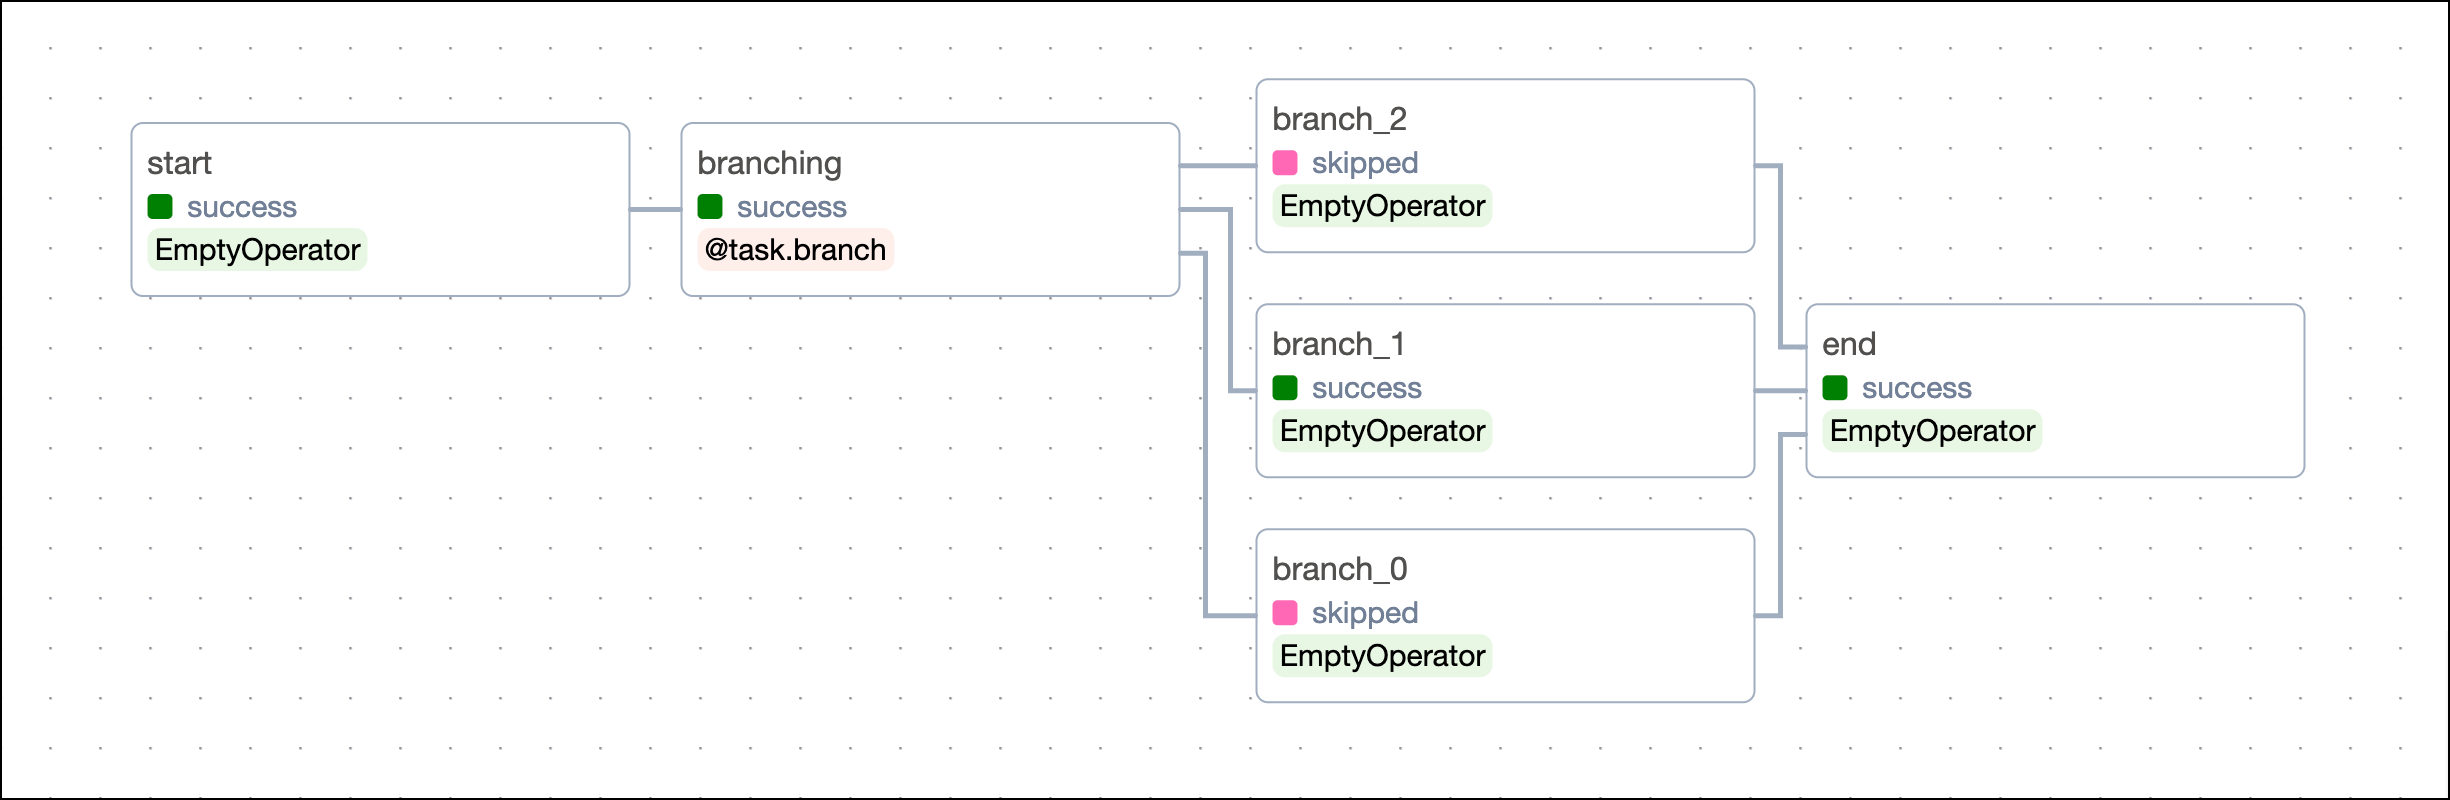
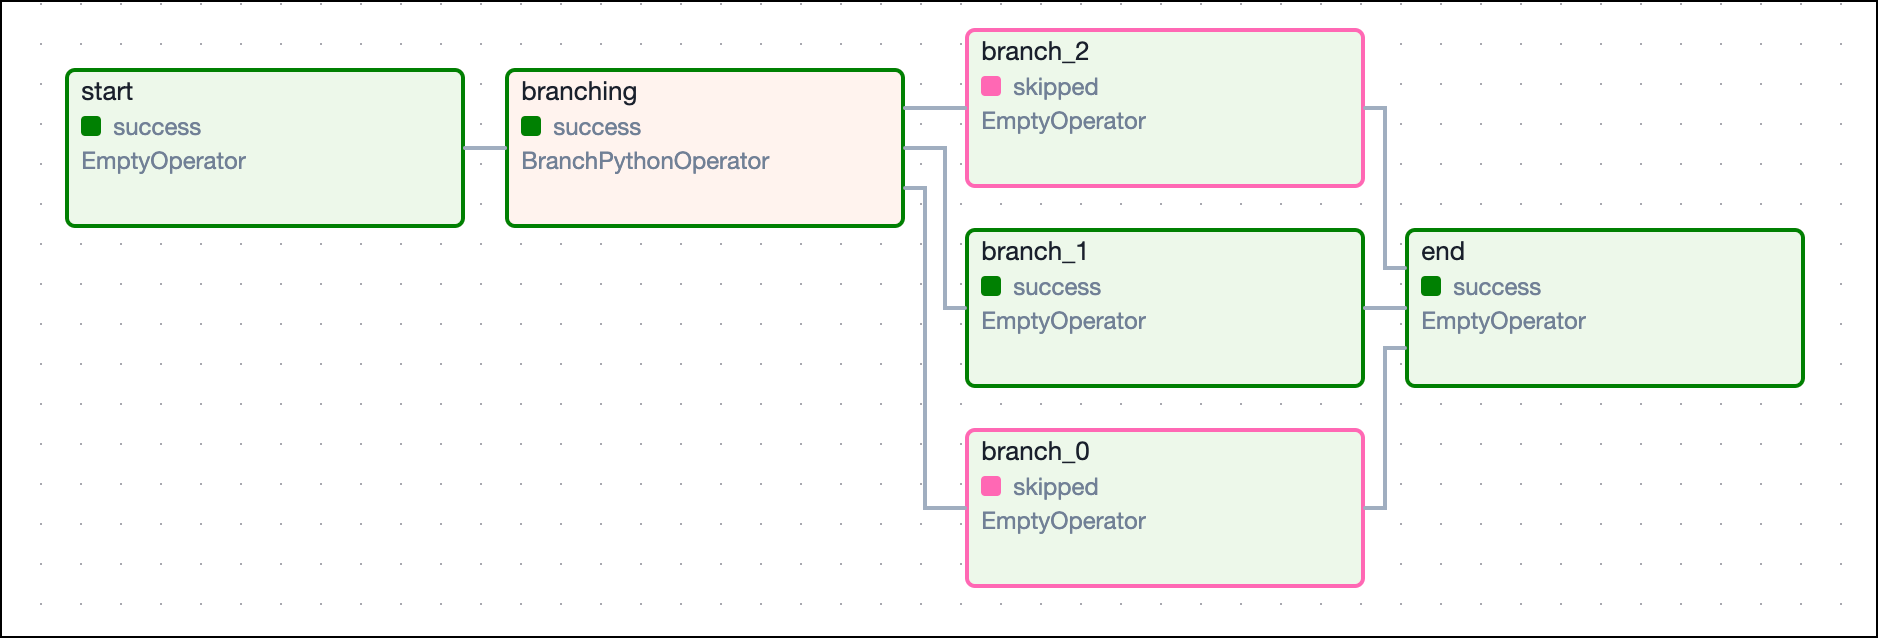
Trigger rule guide (#3877)
* Trigger rule guide base commit

* more trigger rules

* and even more trigger rules

* fix deploy

* update branching screenshots

* update links

* note about fail_stop and setup/teardown

* fix deploy

* on me for trusting GH copilot there

* add missing image borders

* semantics

* retitle

* SEO?

* Apply suggestions from code review

* review updates 2

* fix link

* Apply suggestions from code review

---------

Changed region(s): [[0.0309, 0.0298, 0.9574, 0.9232], [0.9883, 0.9828, 1.0, 1.0], [0.0, 0.9828, 0.0309, 1.0]]

diff --git a/sidebarsLearn.js b/sidebarsLearn.js
@@ -57,6 +57,7 @@ module.exports = {
             'what-is-a-sensor',
             'managing-dependencies',
             'airflow-ui',
+            'airflow-trigger-rules',
             'airflow-variables',
           ],
         },

diff --git a/learn/airflow-trigger-rules.md b/learn/airflow-trigger-rules.md
@@ -1,0 +1,126 @@
+---
+title: "Airflow trigger rules"
+sidebar_label: "Trigger rules"
+id: airflow-trigger-rules
+description: "Learn about available trigger rules and how to use them."
+---
+
+import Tabs from '@theme/Tabs';
+import TabItem from '@theme/TabItem';
+import CodeBlock from '@theme/CodeBlock';
+import branch_example_taskflow from '!!raw-loader!../code-samples/dags/airflow-trigger-rules/branch_example_taskflow.py';
+import branch_example_traditional from '!!raw-loader!../code-samples/dags/airflow-trigger-rules/branch_example_traditional.py';
+
+Trigger rules are used to determine when a task should run in relation to the previous task. By default, Airflow runs a task when all directly upstream tasks are successful. However, you can change this behavior using the `trigger_rule` parameter in the task definition.
+
+:::info
+
+Trigger rules define whether a task runs based on its direct upstream dependencies. To learn how to set task dependencies, see the [Manage task and task group dependencies in Airflow](managing-dependencies.md) guide.
+
+:::
+
+## Define a trigger rule
+
+You can override the default trigger rule by setting the `trigger_rule` parameter in the task definition.
+
+<Tabs
+    defaultValue="taskflow"
+    groupId= "branching-and-trigger-rules"
+    values={[
+        {label: 'TaskFlow API', value: 'taskflow'},
+        {label: 'Traditional syntax', value: 'traditional'},
+    ]}>
+
+<TabItem value="taskflow">
+
+```python {8}
+# from airflow.decorators import task
+# from airflow.models.baseoperator import chain
+
+@task 
+def upstream_task():
+    return "Hello..."
+
+@task(trigger_rule="all_success")
+def downstream_task():
+    return " World!"
+
+chain(upstream_task(), downstream_task())
+```
+
+</TabItem>
+
+<TabItem value="traditional">
+
+```python {6}
+# from airflow.operators.empty import EmptyOperator
+
+upstream_task = EmptyOperator(task_id="upstream_task")
+downstream_task = EmptyOperator(
+    task_id="downstream_task",
+    trigger_rule="all_success"
+)
+chain(upstream_task, downstream_task)
+```
+
+</TabItem>
+</Tabs>
+
+## Available trigger rules in Airflow
+
+The following trigger rules are available:
+
+- `all_success`: (default) The task runs only when all upstream tasks have succeeded.
+- `all_failed`: The task runs only when all upstream tasks are in a failed or upstream\_failed state.
+- `all_done`: The task runs once all upstream tasks are done with their execution.
+- `all_skipped`: The task runs only when all upstream tasks have been skipped. 
+- `one_failed`: The task runs when at least one upstream task has failed. 
+- `one_success`: The task runs when at least one upstream task has succeeded.
+- `one_done`: The task runs when at least one upstream task has either succeeded or failed.
+- `none_failed`: The task runs only when all upstream tasks have succeeded or been skipped.
+- `none_failed_min_one_success`: The task runs only when all upstream tasks have not failed or upstream_failed, and at least one upstream task has succeeded.
+- `none_skipped`: The task runs only when no upstream task is in a skipped state.
+- `always`: The task runs at any time.
+
+:::info 
+
+There are several advanced Airflow features that influence trigger rules. You can define a DAG in which any task failure stops the DAG execution by setting the [DAG parameter](airflow-dag-parameters.md) `fail_stop` to `True`. This will set all tasks that are still running to `failed` and mark any tasks that have not run yet as `skipped`. Note that you cannot have any trigger rule other than `all_success` in a DAG with `fail_stop` set to `True`.
+
+[Setup and Teardown tasks](airflow-setup-teardown.md) are a special type of task to create and delete resources that also influence trigger rules.
+
+:::
+
+## Branching and trigger rules
+
+One common scenario where you might need to implement trigger rules is if your DAG contains conditional logic such as [branching](airflow-branch-operator.md). In these cases, `one_success` or `none_failed` are likely more helpful than `all_success`, because unless all branches are run, at least one upstream task will always be in a `skipped` state.
+
+In the following example DAG there is a simple branch with a downstream task that needs to run if either of the branches are followed. With the `all_success` rule, the `end` task never runs because all but one of the `branch` tasks is always ignored and therefore doesn't have a success state. If you change the trigger rule to `one_success`, then the `end` task can run so long as one of the branches successfully completes.
+
+<Tabs
+    defaultValue="taskflow"
+    groupId= "branching-and-trigger-rules"
+    values={[
+        {label: 'TaskFlow API', value: 'taskflow'},
+        {label: 'Traditional syntax', value: 'traditional'},
+    ]}>
+
+<TabItem value="taskflow">
+
+<CodeBlock language="python">{branch_example_taskflow}</CodeBlock>
+
+This image shows the resulting DAG:
+
+![Branch Dependencies](/img/guides/managing-dependencies_branch_decorator.png)
+
+</TabItem>
+
+<TabItem value="traditional">
+
+<CodeBlock language="python">{branch_example_traditional}</CodeBlock>
+
+This image shows the resulting DAG:
+
+![Branch Dependencies](/img/guides/managing-dependencies_branch_traditional.png)
+
+</TabItem>
+</Tabs>

diff --git a/learn/managing-dependencies.md b/learn/managing-dependencies.md
@@ -11,8 +11,6 @@ import TabItem from '@theme/TabItem';
 import CodeBlock from '@theme/CodeBlock';
 import dependencies_example_1 from '!!raw-loader!../code-samples/dags/managing-dependencies/dependencies_example_1.py';
 import dependencies_example_2_taskflow from '!!raw-loader!../code-samples/dags/managing-dependencies/dependencies_example_2_taskflow.py';
-import dependencies_branch_example_taskflow from '!!raw-loader!../code-samples/dags/managing-dependencies/dependencies_branch_example_taskflow.py';
-import dependencies_branch_example_traditional from '!!raw-loader!../code-samples/dags/managing-dependencies/dependencies_branch_example_traditional.py';
 
 [Dependencies](https://airflow.apache.org/docs/apache-airflow/stable/core-concepts/tasks.html#relationships) are a powerful and popular Airflow feature. In Airflow, your pipelines are defined as Directed Acyclic Graphs (DAGs). Each task is a node in the graph and dependencies are the directed edges that determine how to move through the graph. Because of this, dependencies are key to following data engineering best practices because they help you define flexible pipelines with atomic tasks.
 
@@ -410,41 +408,4 @@ The following options are available:
 - `none_skipped`: The task runs only when no upstream task is in a skipped state.
 - `always`: The task runs at any time.
 
-### Branching and trigger rules
-
-One common scenario where you might need to implement trigger rules is if your DAG contains conditional logic such as [branching](airflow-branch-operator.md). In these cases, `one_success` might be a more appropriate rule than `all_success`.
-
-In the following example DAG there is a simple branch with a downstream task that needs to run if either of the branches are followed. With the `all_success` rule, the `end` task never runs because all but one of the `branch` tasks is always ignored and therefore doesn't have a success state. If you change the trigger rule to `one_success`, then the `end` task can run so long as one of the branches successfully completes.
-
-<Tabs
-    defaultValue="taskflow"
-    groupId= "branching-and-trigger-rules"
-    values={[
-        {label: 'TaskFlow API', value: 'taskflow'},
-        {label: 'Traditional syntax', value: 'traditional'},
-    ]}>
-
-<TabItem value="taskflow">
-
-<CodeBlock language="python">{dependencies_branch_example_taskflow}</CodeBlock>
-
-This image shows the resulting DAG:
-
-![Branch Dependencies](/img/guides/managing-dependencies_branch_decorator.png)
-
-</TabItem>
-
-<TabItem value="traditional">
-
-<CodeBlock language="python">{dependencies_branch_example_traditional}</CodeBlock>
-
-This image shows the resulting DAG:
-
-![Branch Dependencies](/img/guides/managing-dependencies_branch_traditional.png)
-
-</TabItem>
-</Tabs>
-
-
-
-
+Learn more about trigger rules in the [Airflow trigger rules](airflow-trigger-rules.md) guide.

diff --git a/learn/debugging-dags.md b/learn/debugging-dags.md
@@ -151,7 +151,7 @@ It is possible for a DAG to start but its tasks to be stuck in various states or
 - If your tasks have the `depends_on_past` parameter set to `True`, those newly added tasks won't run until you set the state of prior task runs.
 - When running many instances of a task or DAG, be mindful of scaling parameters and configurations. Airflow has default settings that limit the amount of concurrently running DAGs and tasks. See [Scaling Airflow to optimize performance](airflow-scaling-workers.md) to learn more.
 - If you are using task decorators and your tasks are not showing up in the **Graph** and **Grid** view, make sure you are calling your tasks. See also [Introduction to Airflow decorators](airflow-decorators.md).
-- Check your task dependencies and trigger rules. See [Manage DAG and task dependencies in Airflow](managing-dependencies.md). Consider recreating your DAG structure with [EmptyOperators](https://airflow.apache.org/docs/apache-airflow/stable/_api/airflow/operators/empty/index.html) to ensure that your dependencies are structured as expected.
+- Check your task dependencies and trigger rules. See [Manage DAG and task dependencies in Airflow](managing-dependencies.md) and [Airflow trigger rules](airflow-trigger-rules.md). Consider recreating your DAG structure with [EmptyOperators](https://airflow.apache.org/docs/apache-airflow/stable/_api/airflow/operators/empty/index.html) to ensure that your dependencies are structured as expected.
 - The [`task_queued_timeout`](https://airflow.apache.org/docs/apache-airflow/stable/configurations-ref.html#task-queued-timeout) parameter controls how long tasks can be in queued state before they are either retried or marked as failed. The default is 600 seconds.
 - If you are using the CeleryExecutor in an Airflow version earlier than 2.6 and tasks get stuck in the `queued` state, consider turning on [`stalled_task_timeout`](https://airflow.apache.org/docs/apache-airflow/stable/configurations-ref.html#stalled-task-timeout).
 

diff --git a/learn/airflow-dag-parameters.md b/learn/airflow-dag-parameters.md
@@ -84,5 +84,5 @@ Other DAG parameters include:
 | `access_control`          | Specify optional permissions for roles specific to an individual DAG. See [DAG-level permissions](https://airflow.apache.org/docs/apache-airflow/stable/security/access-control.html#dag-level-permissions). This cannot be implemented on Astro. Astronomer recommends customers to use [Astro's RBAC features](https://www.astronomer.io/docs/astro/user-permissions) instead. |
 | `is_paused_upon_creation` | Whether the DAG is paused when it is created. When not set, the Airflow config `core.dags_are_paused_at_creation` is used, which defaults to `True`. |
 | `auto_register`           | Defaults to `True` and can be set to `False` to prevent DAGs using a `with` context from being automatically registered which can be relevant in some advanced dynamic DAG generation use cases. See [Registering dynamic DAGs](https://airflow.apache.org/docs/apache-airflow/stable/howto/dynamic-dag-generation.html#registering-dynamic-dags). |
-| `fail_stop`               |  In Airflow 2.7+ you can set this parameter to `True` to stop DAG execution as soon as one task in this DAG fails. Any tasks that are still running are marked as `failed` and any tasks that have not run yet are marked as `skipped`. Note that you cannot have any [trigger rule](managing-dependencies.md#trigger-rules) other than `all_success` in a DAG with `fail_stop` set to `True`. |
+| `fail_stop`               |  In Airflow 2.7+, you can set this parameter to `True` to stop DAG execution as soon as one task in this DAG fails. Any tasks that are still running are marked as `failed`, and any tasks that have not run yet are marked as `skipped`. Note that you cannot have any [trigger rule](airflow-trigger-rules.md) other than `all_success` in a DAG with `fail_stop` set to `True`. |
 | `dag_display_name`        | Airflow 2.9+ allows you to override the `dag_id` to display a different DAG name in the Airflow UI. This parameter allows special characters. |

diff --git a/learn/airflow-branch-operator.md b/learn/airflow-branch-operator.md
@@ -206,9 +206,9 @@ In this DAG, `random.choice()` returns one random option out of a list of four b
 
 ![Branching Graph View](/img/guides/branching_decorator_graph.png)
 
-If you have downstream tasks that need to run regardless of which branch is taken, like the `join` task in the previous example, you need to update the trigger rule. The default trigger rule in Airflow is `all_success`, which means that if upstream tasks are skipped, then the downstream task will not run. In the previous example, `none_failed_min_one_success` is specified to indicate that the task should run as long as one upstream task succeeded and no tasks failed.
+If you have downstream tasks that need to run regardless of which branch is taken, like the `join` task in the previous example, you need to update the [trigger rule](airflow-trigger-rules.md). The default trigger rule in Airflow is `all_success`, which means that if upstream tasks are skipped, then the downstream task will not run. In the previous example, `none_failed_min_one_success` is specified to indicate that the task should run as long as one upstream task succeeded and no tasks failed.
 
-Finally, note that with the `@task.branch` decorator your Python function *must* return at least one task ID for whichever branch is chosen (i.e. it can't return nothing). If one of the paths in your branching should do nothing, you can use an EmptyOperator in that branch.
+Finally, note that with the `@task.branch` decorator your Python function *must* return at least one task ID for whichever branch is chosen (in other words, it can't return nothing). If one of the paths in your branching should do nothing, you can use an EmptyOperator in that branch.
 
 :::info
 

diff --git a/learn/data-quality.md b/learn/data-quality.md
@@ -81,7 +81,7 @@ The following DAG graph shows typical locations for data quality checks:
 
 It's common to use data quality checks (`post_check_action_1` and `post_check_action_2`) with [Airflow callbacks](error-notifications-in-airflow.md#airflow-callbacks) to alert data professionals of data quality issues through channels like email and Slack. You can also create a downstream task that runs only when all data quality checks are successful, which can be useful for reporting purposes.
 
-When implementing data quality checks, consider how a check success or failure should influence downstream dependencies. [Trigger Rules](managing-dependencies.md#trigger-rules) are especially useful for managing operator dependencies. It often makes sense to test your data quality checks in a dedicated DAG before you incorporate them into your pipelines.
+When implementing data quality checks, consider how a check success or failure should influence downstream dependencies. [Trigger Rules](airflow-trigger-rules.md) are especially useful for managing operator dependencies. It often makes sense to test your data quality checks in a dedicated DAG before you incorporate them into your pipelines.
 
 ## When to implement data quality checks
 

diff --git a/learn/airflow-setup-teardown.md b/learn/airflow-setup-teardown.md
@@ -79,7 +79,7 @@ The following DAG is not using Airflow setup and teardown functionality. It sets
 
 ![DAG without Setup/ teardown - all successful](/img/guides/airflow-setup-teardown_nosutd_dag.png)
 
-The way this DAG is set up, a failure in any of the worker tasks will lead to the `tear_down_cluster` task not running. This means that the resources will not be torn down and will continue to incur costs. Additionally, any downstream tasks depending on `tear_down_cluster` will also fail to run unless they have [trigger rules](managing-dependencies.md#trigger-rules) to run independent of upstream failures.
+The way this DAG is set up, a failure in any of the worker tasks will lead to the `tear_down_cluster` task not running. This means that the resources will not be torn down and will continue to incur costs. Additionally, any downstream tasks depending on `tear_down_cluster` will also fail to run unless they have [trigger rules](airflow-trigger-rules.md) to run independently of upstream failures.
 
 ![DAG without setup/ teardown - upstream failure](/img/guides/airflow-setup-teardown_nosutd_dag_fail.png)
 

diff --git a/learn/use-case-setup-teardown-data-quality.md b/learn/use-case-setup-teardown-data-quality.md
@@ -253,7 +253,7 @@ def validate():
     )
 ```
 
-No matter the outcome of the data quality checks in the `validate` task group, the pipeline will continue because the `sql_check_done` task uses the [trigger rule](managing-dependencies.md#trigger-rules) `all_done` to always be successful. 
+No matter the outcome of the data quality checks in the `validate` task group, the pipeline will continue because the `sql_check_done` task uses the [trigger rule](airflow-trigger-rules.md) `all_done` to be successful always. 
 
 ```python
 @task(trigger_rule="all_done")
